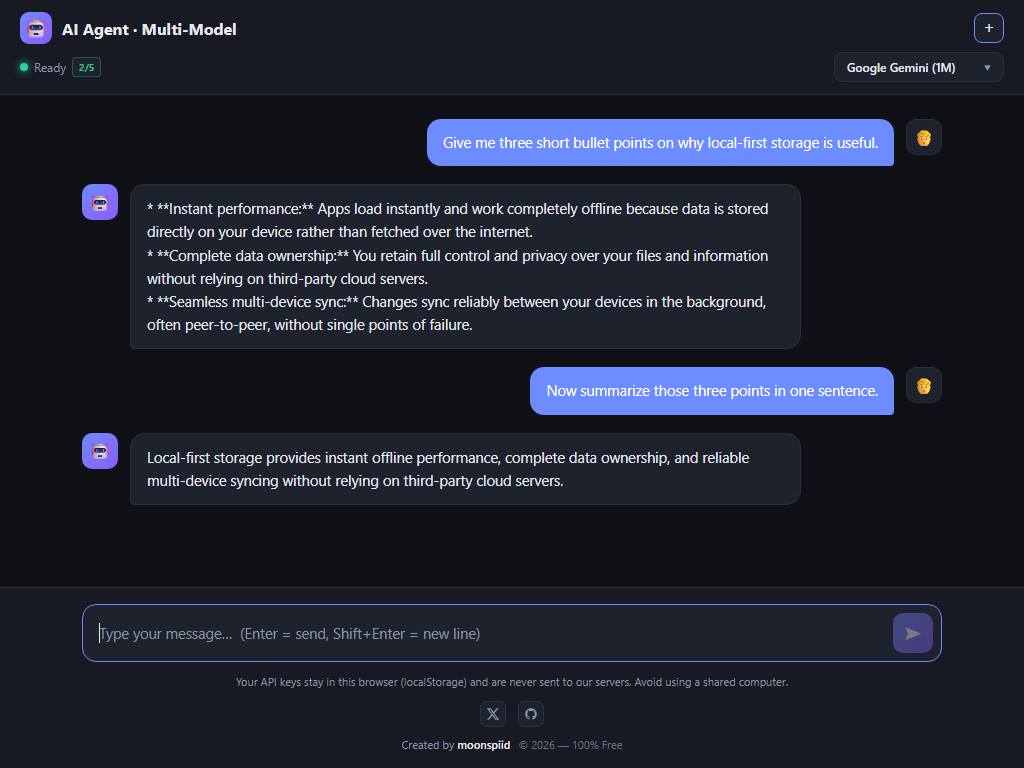
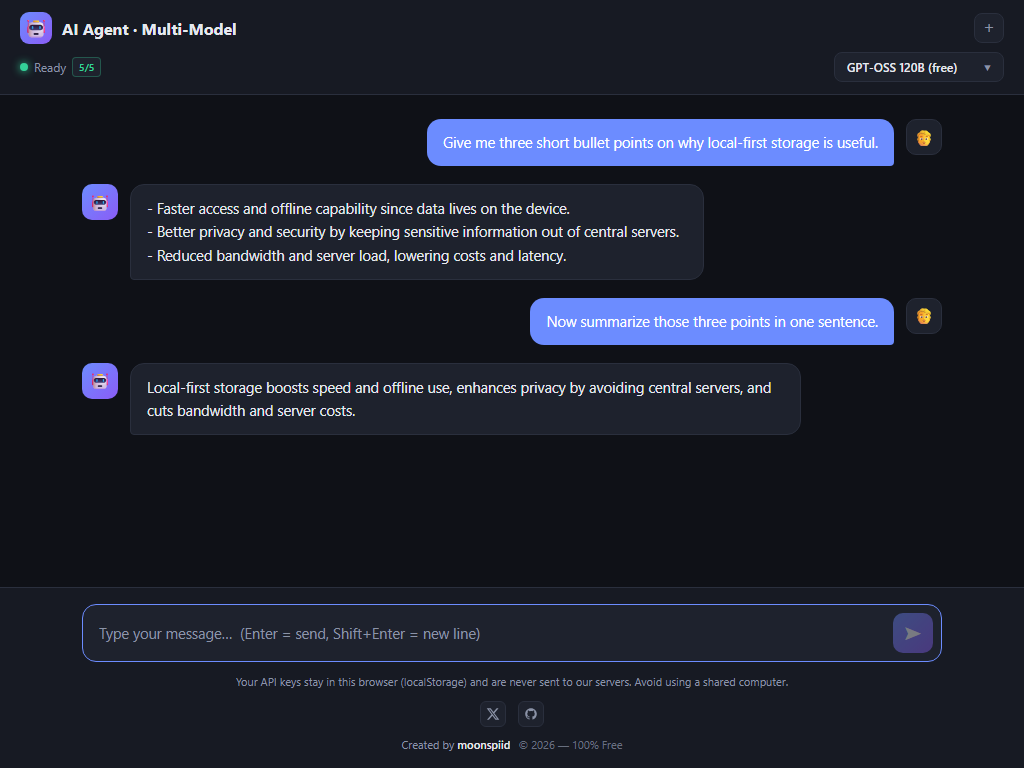
Refresh the README screenshot
Shows the current app: the GPT-OSS 120B default provider and the new
short-answer system prompt in action.

🤖 Generated with Codebuff

diff --git a/README.md b/README.md
@@ -1,6 +1,6 @@
 # AI Agent · Multi-Model
 
-![The chat answering a question, with the model menu closed](screenshot.png)
+![The chat answering two short questions with the default GPT-OSS 120B model, model menu closed](screenshot.png)
 
 A single-file, zero-install web chat that talks to several AI providers from your browser. Open `index.html`, paste an API key, start chatting. No build step, no server, no dependency.
 
